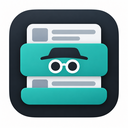
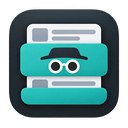
Remove the white export margin from full app artwork

diff --git a/README.md b/README.md
@@ -401,4 +401,4 @@ Third-party notices for the bundled model and runtime are in [NOTICE](NOTICE).
 
 ## Icon assets
 
-Full app artwork is preserved in `icons/icon-source.png`; transparent browser-toolbar artwork is in `icons/toolbar-source.png`. The manifest uses `icon-*` for extension listings and `toolbar-*` for the installed toolbar button. Install Pillow (`python3 -m pip install Pillow`), then run `python3 scripts/make-icons.py` to regenerate both sets at 16, 32, 48, and 128 px.
+Full app artwork, with the white outer margin removed and the dark rounded tile retained, is preserved in `icons/icon-source.png`; transparent browser-toolbar artwork is in `icons/toolbar-source.png`. The manifest uses `icon-*` for extension listings and `toolbar-*` for the installed toolbar button. Install Pillow (`python3 -m pip install Pillow`), then run `python3 scripts/make-icons.py` to regenerate both sets at 16, 32, 48, and 128 px.
